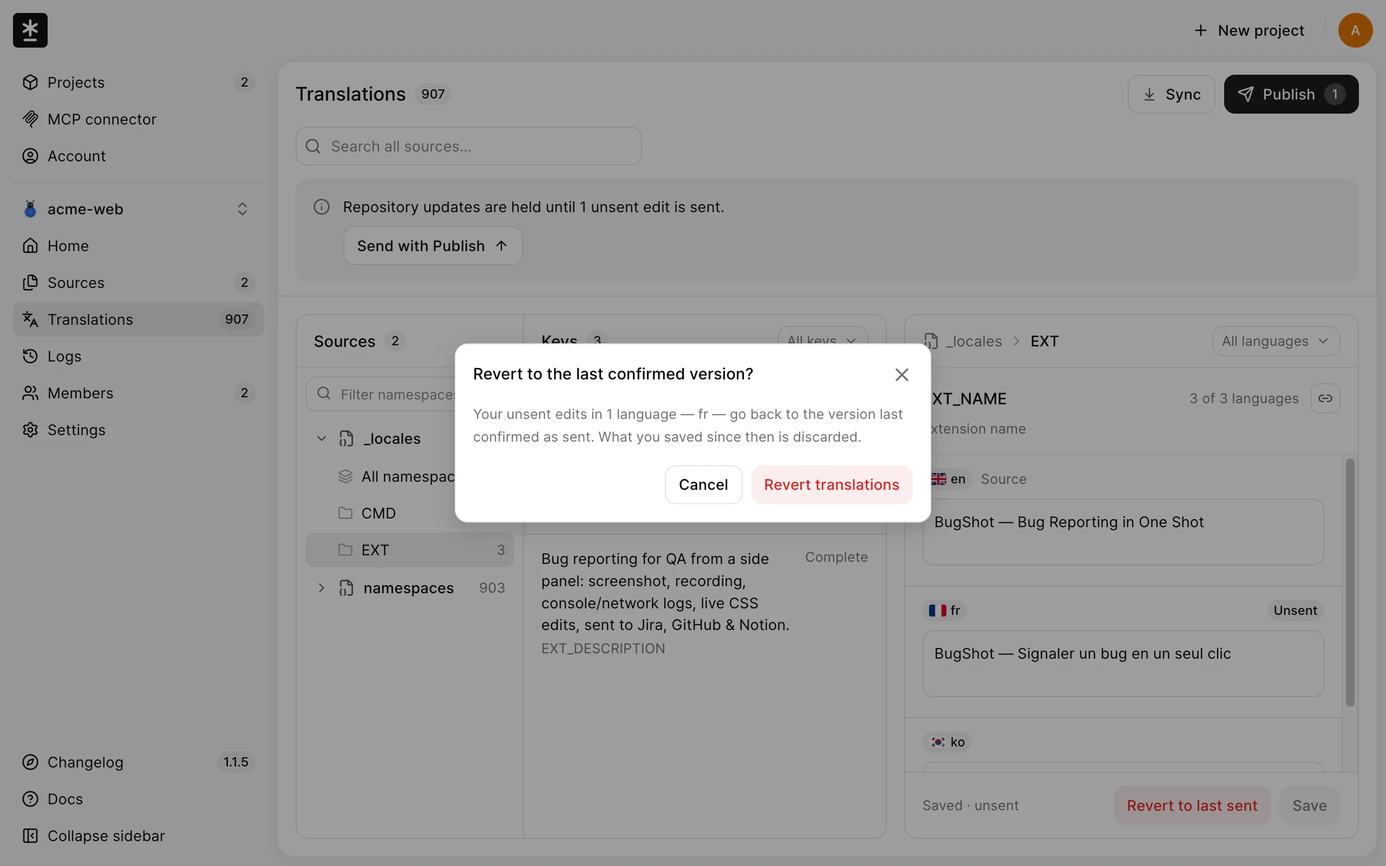
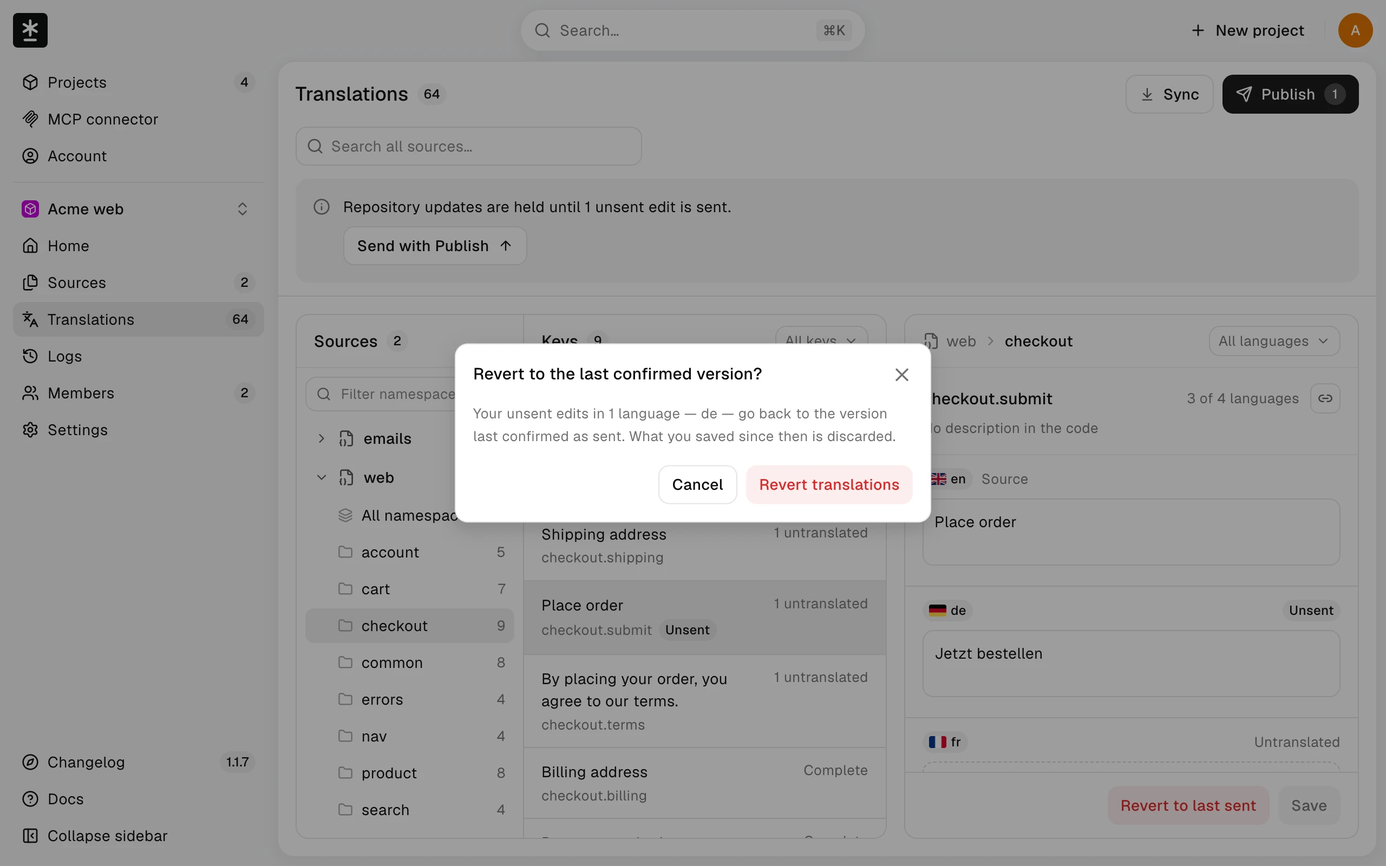
docs(guide): reshoot every stale cut on the resident Acme web project
Retake all 25 stale guide cuts plus the README hero and logs images on the
new resident shooting project (Acme web, web + emails sources), and record
the project, refreshed blob digests and masking rows in SHOOTING.md.

diff --git a/guide/SHOOTING.md b/guide/SHOOTING.md
@@ -20,10 +20,29 @@
 ## 환경 {#environment}
 
 - 로컬 `pnpm dev` + dev DB. **촬영 전에 `pnpm dev`를 다시 띄운다** — dev 서버가 도는 중에 `pnpm build`를 돌리면 서버 컴포넌트가 낡은 채로 남는다.
-- 데이터는 dev DB의 상주 QA 프로젝트 `bugshot-i18n-test-qa`(OWNER + EDITOR 두 계정)다. 지우거나 새로 만들지 않는다.
+- 데이터는 dev DB의 **상주 촬영 프로젝트 `Acme web`**(아래 절)이 기본이다. 실제 PR 이력이 필요한 컷(`logs-event` · README `logs`)만 상주 QA 프로젝트 `bugshot-i18n-test-qa`(OWNER + EDITOR, 마스킹 표로 `acme-web`)에서 찍는다. 둘 다 지우거나 새로 만들지 않는다.
 - **편집자 장(`translate/*`)의 컷은 EDITOR 계정으로 찍는다** — OWNER에게만 보이는 동작이 편집자 가이드 이미지에 들어가면 거짓이다.
 - GitHub 화면은 github.com에서 폐기용 리포의 설정 화면으로 찍는다. **폼을 채워도 저장·제출하지 않고**, 촬영 뒤 새로고침해 되돌린다.
 - 로그인(OAuth)은 사람이 한다. 계정을 바꿔야 하는 컷은 한 계정의 컷을 모아 찍는다.
+
+### 상주 촬영 프로젝트 `Acme web` {#resident}
+
+2026-10-03에 만들었다(사용자 결정 — 일회용 프로젝트를 만들고 지우던 방식을 대신한다). 번역 화면이 랜딩 목업(`m.landing.mockup`)과 같은 씬이 되도록 데이터를 짰다. **지우지 않고 다음 촬영마다 재사용한다.**
+
+| 항목 | 값 |
+| --- | --- |
+| 프로젝트 | Name `Acme web` · Address `acme-web` · OWNER(GitHub 계정) + EDITOR(Google 계정, 초대 수락) |
+| 리포 | 촬영 리포 `i18n-format-check` · base `dev` — 리포의 다른 세트(`locales/{locale}.yml` · `src/i18n/*`)는 Add sources 모달의 "아직 안 고른 후보"로 쓴다 |
+| 소스 `web` | `i18n/web/{locale}.json`(json-catalog, 중첩) · 53키 · 네임스페이스 아홉(`account` · `cart` · `checkout` · `common` · `errors` · `nav` · `product` · `search` · `settings`) |
+| 소스 `emails` | `i18n/emails/{locale}.json` · 11키 · 네임스페이스 넷(`order` · `password` · `shipping` · `welcome`) |
+| 로케일 | `en`(기준) · `de` · `fr` · `ja` — fr·ja에 미번역 칸, 원문을 고친 키 셋(`cart.empty` · `product.shipsIn` · `welcome.subject`)의 번역 9칸이 검토 대기, 원문만 있는 새 키 둘(`checkout.giftNote` · `product.wishlist`) |
+| 목업 씬 | `web` › `checkout` › `checkout.submit` — en `Place order` · de `Bestellung aufgeben` · fr 빈 칸 · ja `注文を確定する` |
+
+- **픽스처 파일은 키를 코드 유닛 순으로 정렬해 커밋했다** — json-catalog writer가 정렬해 다시 쓰므로, 정렬이 어긋나면 촬영용 Publish가 `Nothing differs`가 아니라 실제 diff(=PR)를 낸다. 픽스처를 고치면 어댑터 read→write가 바이트 동일한지 먼저 잰다.
+- 검토 대기는 원문 변경이 적재될 때만 생긴다 — 그래서 픽스처는 두 커밋이다(전체 적재 → 원문 셋 수정·새 키 둘 → OWNER Sync).
+- **편집 흔적은 남기지 않는다**: EDITOR 컷은 `checkout.submit` fr에 `Passer la commande`를 저장해 Home·미리보기(PR 안 엶)를 찍고, 칸을 비워 다시 저장한 뒤 Publish(`Nothing differs` → `Nothing changed in the files`)로 미전달 표시를 지운다(이 Publish가 전달 확인도 세운다). OWNER 컷은 `checkout.submit` de를 `Jetzt bestellen`으로 저장해 보류 Home·Sync 확인창(Cancel)·Revert 확인창을 찍고 실제 Revert로 되돌린다. 끝나면 미전달 0이어야 한다.
+- ⚠ **이 프로젝트로 OWNER 활성 프로젝트가 상한(셋)에 닿았다**(`bugshot-i18n-test-qa` · `i18n-order-check` · `acme-web`) — `/projects/new`가 목록으로 돌려보낸다. 온보딩 ①–④를 다시 찍을 때는 `acme-web`을 Settings에서 잠시 보관해 자리를 만들고, 일회용 프로젝트는 Address를 `acme-web`이 아닌 값(보관해도 slug는 남는다)으로 만든 뒤 id로 지우고, `acme-web`을 Restore한다. ①–③만이면 Create project를 누르지 않으니 일회용 프로젝트가 필요 없다.
+- `bugshot-i18n-test-qa3`(O7의 "영구 보관" 대상)은 촬영 시점(2026-10-03)에 dev DB에 이미 없었다 — 보관할 것이 없어 그 단계를 건너뛰었다.
 
 ## 마스킹 {#masking}
 
@@ -36,9 +55,14 @@
 | malmoi-test-org | acme |
 | bugshot-i18n-test | web |
 | i18n-order-check | acme-mobile |
+| i18n-format-check | web |
+| i18n-single-locale | admin |
+| i18n-many-locales | docs |
+| i18n-none | api |
 
 **사람을 가리키는 값은 이 표에 적지 않는다** — 표 자체가 공개 리포에 커밋된다. 촬영자가 원본을 로컬에서만 들고 치환한다: OWNER 표시 이름·GitHub 로그인 → `Alex Kim`·`@alex-kim`, EDITOR 표시 이름 → `Jordan Lee`, 이메일(가려진 `ab***@…` 꼴 포함) → `@example.com` 주소, 사람 사진 → 치환 이름의 이니셜 원(`Avatar` 폴백 모양). 뷰포트 전체 규격이라 셸 좌상단·우상단 아바타가 늘 컷에 들어간다 — 크롭으로 뺄 수 없다.
 - 앱 origin `localhost:3000`은 `mal-moi.com`으로 바꾼다 — `/mcp`의 Server URL과 조각이 origin을 그대로 보인다(가이드 본문이 프로덕션 주소를 쓴다).
+- 리포 경로의 소유자 조각(오너 계정명 + `/`)은 `acme/`로 바꾼다 — `Acme web`의 리포가 `acme/web`이 된다. ⚠ 그 경로는 화면에서 **소유자 · `/` · 리포명 세 텍스트 노드로 갈려** 있어 경로 단위 치환이 안 걸린다 — 다음 노드가 `/` + 리포명인 소유자 노드를 먼저 `acme`로 바꾼다. 온보딩 대화상자(①·②) 안은 예외로 `alex-kim/`이다(행 머리의 계정명이 로그인이다).
 
 - ⚠ **오너 GitHub 계정명은 원본으로 올릴 수 없다** — `SinhyeokKang/malmoi/...`는 action 경로라 `setup/allowed-actions.md`에 정당하게 있고, 게이트가 부분 문자열로 red를 낸다. 화면에서 그 계정이 사람으로 보이는 자리(셸 좌측 상단·계정 메뉴)는 크롭으로 뺀다. action 경로 속 계정명은 공개 식별자라 그대로 둔다.
 - 픽셀 안의 문자열은 게이트가 못 본다. 컷마다 눈으로 확인한다.
@@ -86,39 +110,39 @@
 | 에셋 | 소스 | blob | 치수 |
 | --- | --- | --- | --- |
 | /guide/push-token-secret.webp | lib/onboarding/workflow.ts | 45d351ca4d9fc6cff70c84d0e784e6e992edba69 | 2560x1600 |
-| /guide/workflow-file.webp | components/settings/ci-card.tsx, components/onboarding/workflow-block.tsx, lib/onboarding/workflow.ts | 8dc8b8e40c8d03d1987042a2753dbd2b7a51a560, e099fcb70b6fca21b04b07c69217a0b2a0018f9e, 45d351ca4d9fc6cff70c84d0e784e6e992edba69 | 2560x1600 |
+| /guide/workflow-file.webp | components/settings/ci-card.tsx, components/onboarding/workflow-block.tsx, lib/onboarding/workflow.ts | 4bd4e0efe406a56623031a2b69b5d5c38a4d847a, 092b2bc9a2f640b47cde917eba8198f77b2b8534, 45d351ca4d9fc6cff70c84d0e784e6e992edba69 | 2560x1600 |
 | /guide/actions-policy.webp | lib/onboarding/workflow.ts, .github/actions/malmoi-i18n-push/action.yml | 45d351ca4d9fc6cff70c84d0e784e6e992edba69, 559ddc28bcd1c0fa8f4a1946dd15f7e8fcd0f03d | 2560x1600 |
-| /guide/translation-editor.webp | components/translations/workspace/key-list.tsx, components/translations/workspace/locale-panel.tsx, components/translations/workspace/workspace.tsx, components/translations/workspace/tree-panel.tsx | e80e1d2ccbceef8b1fe90129642828023062181f, d1cdf1a4ed40ae711dcd497e5ab53d1f636e0ca6, 9f09ce7b01ed2e925931caed9574e4a268a7069f, e6ffd8bacdd8839ed55d81a881e8596a00db5856 | 2560x1600 |
-| /guide/publish-preview.webp | components/publish-button.tsx, lib/publish/preview.ts | 883186b35409b04573b0875338f3c50b4be4b67e, 257ebc5a440efdd31731c6426b9851f869a41561 | 2560x1600 |
-| /guide/project-home.webp | app/(edit)/projects/[slug]/(home)/page.tsx, components/home/count-cards.tsx, components/home/meta-column.tsx | 75265bd2c58a5ee2adb12676c1505e0a85fb321f, c07299e669429f92e186871be1b5af5c072196f5, e604a3df5c2d576c3a23eea73ec2ab63eb25bec8 | 2560x1600 |
-| /guide/invite-members.webp | components/members/invite-modal.tsx | 02990e7be3eaa99151caea8a3272f5511f95923c | 2560x1600 |
-| /guide/members.webp | components/members/member-list.tsx, components/members/member-row.tsx, components/members/pending-invitations.tsx | 991ea321fe17d6a550fb2fa40b2b8a7a6116ae7c, 670643ad10a2e9a101d3b2e1123d24cc56fc3ab4, 7c9b9160e6e4fc77dd6277239daaf8c5fa5e196e | 2560x1600 |
-| /guide/sources.webp | components/sources/sources-screen.tsx, components/sources/source-status.tsx | 91c8f8eeb1666d899d9d7c07413dc3a5a7a7a794, 322b6032402ec63dfb1ac84adb5f61466197f0ab | 2560x1600 |
-| /guide/add-sources.webp | components/sources/add-sources-modal.tsx | a5d967e4ae6d9c0ea5e6490d959f5bd8fb3539af | 2560x1600 |
-| /guide/archive-card.webp | components/settings/archive-card.tsx | ad3ac6b92e320b8c701f4a5f89ae79636ee09848 | 2560x1600 |
-| /guide/accept-invitation.webp | app/invite/[token]/page.tsx, components/invite/project-card.tsx, components/signin/auth-layout.tsx | 1acd7ea93339bf382346675e15153911f7e5ff28, f04bd2df388d5f046ad05818553e51c39fd45376, 707e072f943e340d3d4fb9b389ecb39f75d67eb2 | 2560x1600 |
-| /guide/state-filter.webp | components/translations/workspace/filter-menu.tsx, components/translations/workspace/key-list.tsx, dict:translations.workspace.filters.state.any, dict:translations.workspace.filters.state.incomplete, dict:translations.workspace.filters.state.unsent, dict:translations.workspace.filters.state.review, dict:translations.workspace.filters.state.new | d3bce959af8d327b21251baf8afc1d3719bdea3c, e80e1d2ccbceef8b1fe90129642828023062181f, b823bb9b42b3672439670b5267fe5328d7524380, 387fd1bbc18419e26c612f4acad9213e5073ade4, 0d09fa0d8c890b48da20aefe409a39eb962b5114, 33a506cf6ec5a56c261838f0a5a3d29cd7f2dacc, 56539cd31aeb7453fb2900c2952b988146fd6127 | 2560x1600 |
-| /guide/home-publish.webp | app/(edit)/projects/[slug]/(home)/page.tsx, components/home/count-cards.tsx, components/publish-button.tsx | 75265bd2c58a5ee2adb12676c1505e0a85fb321f, c07299e669429f92e186871be1b5af5c072196f5, 883186b35409b04573b0875338f3c50b4be4b67e | 2560x1600 |
-| /guide/publish-result.webp | components/publish-button.tsx | 883186b35409b04573b0875338f3c50b4be4b67e | 2560x1600 |
-| /guide/home-paused.webp | app/(edit)/projects/[slug]/(home)/page.tsx, components/home/count-cards.tsx, dict:home.cards.held.pending-edits | 75265bd2c58a5ee2adb12676c1505e0a85fb321f, c07299e669429f92e186871be1b5af5c072196f5, e7daa697ea395700d6e0a57f5dc83a59b2b30aa7 | 2560x1600 |
-| /guide/revert-confirm.webp | components/translations/workspace/workspace.tsx, components/translations/edit-loss-banner.tsx, components/translations/workspace/key-list.tsx | 9f09ce7b01ed2e925931caed9574e4a268a7069f, a2d467970dd0f205e735b233b89ac467e3cbd7af, e80e1d2ccbceef8b1fe90129642828023062181f | 2560x1600 |
-| /guide/sync-discard.webp | components/home/sync-button.tsx | 291488b956d5ed29073e941cfb010802b501c67e | 2560x1600 |
-| /guide/logs-event.webp | components/logs/event-dialog.tsx, components/logs/event-detail.tsx | 0165c38aa64249055a9719799656d73b6aa11187, a9b4439ca5ac09eb517ce395d8a8554e3e77ecc2 | 2560x1600 |
-| /guide/account.webp | app/(edit)/account/page.tsx, components/account/profile-picture.tsx, components/account/login-methods.tsx, components/account/github-section.tsx | 0c1aa217dc31719904fc9fd926d8910e49e9b5fb, 398f113d7977abdc5f558f52e70bab28bdce3927, f4338d4aae4e18915e03a1f4bd35e96c2d7f52ba, 4c51c1f75b4f736cfece77b000c560e670b9093c | 2560x1600 |
-| /guide/mcp-create-token.webp | components/mcp/token-modal.tsx, components/mcp/token-grant-fields.tsx | ffa3d134c45ea4791b60fab9a77ad5809a35ebd3, 3d25c124462babf4252b119e8ee891f2b693150d | 2560x1600 |
-| /guide/mcp-connector.webp | components/mcp/connected-apps-card.tsx, components/mcp/token-card.tsx | 67ca3987aaa70690fd76e5631ca3c4ac8730d688, 9159821fea3a659f0a8de65105a95c7d514c11f5 | 2560x1600 |
-| /guide/oauth-consent.webp | app/oauth/authorize/page.tsx, components/oauth/consent-panel.tsx, components/oauth/app-card.tsx, components/mcp/token-grant-fields.tsx | 3440235fe7a45c306afa13f94ba1536d829b5f36, 12ad3105c15d4917f0a245797f1b092f59159757, c53824331c89ec5759a6173c71718b1b6b1ce01f, 3d25c124462babf4252b119e8ee891f2b693150d | 2560x1600 |
-| /guide/create-repository.webp | components/onboarding/new-project.tsx, components/onboarding/steps/repo.tsx | 92d8908f3e4e816ef619ad5056bf7c5fe7f9d5dd, dde9d7f67f12f97ae260f96a84a2a35ccc9cc10d | 2560x1600 |
-| /guide/create-files.webp | components/onboarding/new-project.tsx, components/onboarding/steps/files.tsx | 92d8908f3e4e816ef619ad5056bf7c5fe7f9d5dd, 73239b5ec88a1a2ec869a90b13942709f27b28b5 | 2560x1600 |
-| /guide/create-name.webp | components/onboarding/new-project.tsx, components/onboarding/steps/naming.tsx | 92d8908f3e4e816ef619ad5056bf7c5fe7f9d5dd, cd59e484ac6d8aace8458c721f627be1948f857f | 2560x1600 |
-| /guide/create-ready.webp | components/onboarding/new-project.tsx, components/onboarding/steps/result.tsx, components/onboarding/workflow-block.tsx | 92d8908f3e4e816ef619ad5056bf7c5fe7f9d5dd, 768be882181242fe383d1b32646b089128d6676f, e099fcb70b6fca21b04b07c69217a0b2a0018f9e | 2560x1600 |
+| /guide/translation-editor.webp | components/translations/workspace/key-list.tsx, components/translations/workspace/locale-panel.tsx, components/translations/workspace/workspace.tsx, components/translations/workspace/tree-panel.tsx | 577591f47aa319f104fb6e3255228e8577ec5944, 9128e27fd830b7e652eac42f98e7082440980b23, a71181e2bdacaa99af65fd018d01c75fd526080b, 3ee7152f19005f825a81af057cbaa2e232ee4c0f | 2560x1600 |
+| /guide/publish-preview.webp | components/publish-button.tsx, lib/publish/preview.ts | 4a4f73fdcefb0bd9b5d65a3ebcda8183638b47d3, 257ebc5a440efdd31731c6426b9851f869a41561 | 2560x1600 |
+| /guide/project-home.webp | app/(edit)/projects/[slug]/(home)/page.tsx, components/home/count-cards.tsx, components/home/meta-column.tsx | 75265bd2c58a5ee2adb12676c1505e0a85fb321f, 6bc8a8f1bb9835ebfbb199a2efa13cb2e3314ae2, edf23259e875f2f3ea5022c65afde7dbe52ef961 | 2560x1600 |
+| /guide/invite-members.webp | components/members/invite-modal.tsx | 9b5a3cda42078ed85f1644cecede6cceba78512e | 2560x1600 |
+| /guide/members.webp | components/members/member-list.tsx, components/members/member-row.tsx, components/members/pending-invitations.tsx | 5d6d40bdda585cd2701e1a96e35cf919cd563d94, 1ef2a56aa72c5358d2694909da62048dd4b9d62f, dc4b07831441305ba57c73f3d8ea7f37520b7988 | 2560x1600 |
+| /guide/sources.webp | components/sources/sources-screen.tsx, components/sources/source-status.tsx | ec9328d4a3caf885093bae4ffa3b2cacb3af6271, 322b6032402ec63dfb1ac84adb5f61466197f0ab | 2560x1600 |
+| /guide/add-sources.webp | components/sources/add-sources-modal.tsx | cef5eeb86b8eb0f8b58d787a5127a08c0f4ce142 | 2560x1600 |
+| /guide/archive-card.webp | components/settings/archive-card.tsx | 577981f534827fb9996f0a70583c9ea9bccb4894 | 2560x1600 |
+| /guide/accept-invitation.webp | app/invite/[token]/page.tsx, components/invite/project-card.tsx, components/signin/auth-layout.tsx | 8c1b77f4b306fb4c14745b91e57503407e3485fd, 127ce43ee81376d2129c819207560812ddf1f1e7, 8a968c709a4a6d01b86c1eac76f2456efa964c3e | 2560x1600 |
+| /guide/state-filter.webp | components/translations/workspace/filter-menu.tsx, components/translations/workspace/key-list.tsx, dict:translations.workspace.filters.state.any, dict:translations.workspace.filters.state.incomplete, dict:translations.workspace.filters.state.unsent, dict:translations.workspace.filters.state.review, dict:translations.workspace.filters.state.new | 0d6e722c777ce3d4d3cdba98015793f38c2cbb4a, 577591f47aa319f104fb6e3255228e8577ec5944, b823bb9b42b3672439670b5267fe5328d7524380, 387fd1bbc18419e26c612f4acad9213e5073ade4, 0d09fa0d8c890b48da20aefe409a39eb962b5114, 33a506cf6ec5a56c261838f0a5a3d29cd7f2dacc, 56539cd31aeb7453fb2900c2952b988146fd6127 | 2560x1600 |
+| /guide/home-publish.webp | app/(edit)/projects/[slug]/(home)/page.tsx, components/home/count-cards.tsx, components/publish-button.tsx | 75265bd2c58a5ee2adb12676c1505e0a85fb321f, 6bc8a8f1bb9835ebfbb199a2efa13cb2e3314ae2, 4a4f73fdcefb0bd9b5d65a3ebcda8183638b47d3 | 2560x1600 |
+| /guide/publish-result.webp | components/publish-button.tsx | 4a4f73fdcefb0bd9b5d65a3ebcda8183638b47d3 | 2560x1600 |
+| /guide/home-paused.webp | app/(edit)/projects/[slug]/(home)/page.tsx, components/home/count-cards.tsx, dict:home.cards.held.pending-edits | 75265bd2c58a5ee2adb12676c1505e0a85fb321f, 6bc8a8f1bb9835ebfbb199a2efa13cb2e3314ae2, e7daa697ea395700d6e0a57f5dc83a59b2b30aa7 | 2560x1600 |
+| /guide/revert-confirm.webp | components/translations/workspace/workspace.tsx, components/translations/edit-loss-banner.tsx, components/translations/workspace/key-list.tsx | a71181e2bdacaa99af65fd018d01c75fd526080b, a2d467970dd0f205e735b233b89ac467e3cbd7af, 577591f47aa319f104fb6e3255228e8577ec5944 | 2560x1600 |
+| /guide/sync-discard.webp | components/home/sync-button.tsx | 356c1137a5ca0cf424bd99a0cef14dd639cff2f0 | 2560x1600 |
+| /guide/logs-event.webp | components/logs/event-dialog.tsx, components/logs/event-detail.tsx | 0dedec5f350f028a90964b1de78ea9b59ff0bf35, ddce8aefc3e5f3139a66bceabe4009fc8eaa85f0 | 2560x1600 |
+| /guide/account.webp | app/(edit)/account/page.tsx, components/account/profile-picture.tsx, components/account/login-methods.tsx, components/account/github-section.tsx | 08c082fdfcf73447117b8630f1935c2df7616260, 398f113d7977abdc5f558f52e70bab28bdce3927, c5a0185be30d378a43f5f1fd74abdc4aff87fa6f, 9ba2437980de1b0efb7d651cae50a654a2415b41 | 2560x1600 |
+| /guide/mcp-create-token.webp | components/mcp/token-modal.tsx, components/mcp/token-grant-fields.tsx | af606c315ee6be9fbde91726442a1eaf1b434875, 7e1886518d239bbb8c0cf7ca2aa9b68648f3576b | 2560x1600 |
+| /guide/mcp-connector.webp | components/mcp/connected-apps-card.tsx, components/mcp/token-card.tsx | 622ad68db7cd503d0a130615ef0296835285b92c, 9c41fc7bc3180499c970f2d0219b66e080e15bad | 2560x1600 |
+| /guide/oauth-consent.webp | app/oauth/authorize/page.tsx, components/oauth/consent-panel.tsx, components/oauth/app-card.tsx, components/mcp/token-grant-fields.tsx | f7d6f8fe1be6b9580261103ade395f17f3a8dbff, 2660e31ba25278e2addd3e3bcddeb3b9a94c486e, aa583137442fbd8122e5ca461701f5ffa2dbe599, 7e1886518d239bbb8c0cf7ca2aa9b68648f3576b | 2560x1600 |
+| /guide/create-repository.webp | components/onboarding/new-project.tsx, components/onboarding/steps/repo.tsx | 111ce7bcd111dc95367fa5984f528d9ff2f7a49f, ff3ffdc74c77292b9143ecbee24ca1e0abc0a474 | 2560x1600 |
+| /guide/create-files.webp | components/onboarding/new-project.tsx, components/onboarding/steps/files.tsx | 111ce7bcd111dc95367fa5984f528d9ff2f7a49f, 85fd6e1b62eb182e52040cbb2793d32ed3ed42af | 2560x1600 |
+| /guide/create-name.webp | components/onboarding/new-project.tsx, components/onboarding/steps/naming.tsx | 111ce7bcd111dc95367fa5984f528d9ff2f7a49f, ab8f89284b04afc62a47127b63ea44b698bbeead | 2560x1600 |
+| /guide/create-ready.webp | components/onboarding/new-project.tsx, components/onboarding/steps/result.tsx, components/onboarding/workflow-block.tsx | 111ce7bcd111dc95367fa5984f528d9ff2f7a49f, 0303dfc89c884f37a886a0040c5e01c626e4b116, 092b2bc9a2f640b47cde917eba8198f77b2b8534 | 2560x1600 |
 
 - ⚠ **셸이 컷에 들어간 뒤로 LNB·패널 머리·카드 머리(`components/shell/**`·`components/ui/panel-card.tsx` 등)의 변경도 모든 컷을 낡게 한다** — 소스로 올리면 신호가 죽으므로(`messages/en.tsx`와 같은 이유) 올리지 않는다. 셸을 바꿨으면 컷 전체를 손으로 다시 본다.
 
 ## 알려진 벽 {#walls}
 
 - **GitHub App 설치 왕복**(①의 1클릭 설치·요청 복귀·승인 복귀)은 로컬에서 못 밟는다 — 설치 URL이 `redirect_uri`를 안 받아 프로덕션 callback으로 간다. 찍어야 하면 수동으로 찍고, 아니면 건너뛴다.
-- **④ `Malmoi is ready`는 프로젝트를 새로 만들어야만 닿는다**(2026-09-29 사용자 승인으로 찍었다). 절차: ①–③과 같이 `i18n-order-check`를 보관해 자리를 만들고 → 실제 UI로 일회용 프로젝트를 만든다(Name `Acme web`·Address `acme-web` — 마스킹이 필요 없다) → ④가 뜨면 **스냅샷·텍스트 출력 전에** 토큰 칩(`<code>`)을 같은 형(base64url 43자)의 무작위 가짜 값으로 바꾸고, 캡처 직전 그 값이 남았는지 다시 확인한다 → YAML의 `api-url:` 줄은 로컬에서만 생기므로 DOM에서 지운다(프로덕션 출력과 맞춘다) → 캡처 뒤 Close → 일회용 프로젝트를 dev DB에서 **그 id로 좁힌 SQL**로 지운다(한 트랜잭션: `ProjectEvent`·`DeliveryConfirmation`·`SyncRun`·`TranslationBaseline`·`Translation`·`StringKey`(`KeyRef`는 cascade)·`Locale`·`ProjectInvitation`·`ProjectMember` → `Project.defaultSurfaceId` NULL → `TranslationSurface` → `Project`. **UI 삭제는 없다**) → `i18n-order-check`를 Restore. ⚠ 폐기한 프로젝트의 사건은 촬영 흔적이라 같이 지운다 — 남은 프로젝트의 사건은 지우지 않는다.
+- **④ `Malmoi is ready`는 프로젝트를 새로 만들어야만 닿는다**(2026-09-29 사용자 승인으로 찍었다). 절차: ①–③과 같이 `i18n-order-check`를 보관해 자리를 만들고 → 실제 UI로 일회용 프로젝트를 만든다(Name `Acme web`·Address `acme-web` — 마스킹이 필요 없다) → ④가 뜨면 **스냅샷·텍스트 출력 전에** 토큰 칩(`<code>`)을 같은 형(base64url 43자)의 무작위 가짜 값으로 바꾸고, 캡처 직전 그 값이 남았는지 다시 확인한다 → YAML의 `api-url:` 줄은 로컬에서만 생기므로 DOM에서 지운다(프로덕션 출력과 맞춘다) → 캡처 뒤 Close → 일회용 프로젝트를 dev DB에서 **그 id로 좁힌 SQL**로 지운다(한 트랜잭션: `ProjectEvent`·`DeliveryConfirmation`·`SyncRun`·`TranslationBaseline`·`Translation`·`StringKey`(`KeyRef`는 cascade)·`Locale`·`ProjectInvitation`·`ProjectMember` → `Project.defaultSurfaceId` NULL → `TranslationSurface` → `Project`. **UI 삭제는 없다**) → `i18n-order-check`를 Restore. ⚠ 폐기한 프로젝트의 사건은 촬영 흔적이라 같이 지운다 — 남은 프로젝트의 사건은 지우지 않는다. ⚠ **2026-10-03 상주 촬영 프로젝트 이후**: 토큰 칩은 이제 `<code>`가 아니라 **읽기 전용 `<input>`의 value**다 — 그 값을 바꾼다. `api-url:` 줄은 job마다 하나씩 둘이다(전역 치환). 자리 만들기는 `i18n-order-check`가 아니라 `acme-web` 보관이다(상주 절).
 - ⚠ **미전달 표시를 지우는 길** (2026-09-28): 촬영용 편집을 원래 값으로 다시 저장하면 값은 리포와 같아지고 표시만 남는다. 그 셀에 전달된 적 있는 값이 없으면 **Revert to last sent가 꺼진다**(OWNER에게도 — "The last sent version isn't available"). 그때 OWNER의 Publish 미리보기가 *Nothing differs from dev*를 내고, 그 Publish는 **PR 없이 보낸 것으로 표시만 한다**(GitHub 쓰기 없음, Logs에 Publish 사건 1건). 편집자 장 컷은 이 정리 **뒤에** 찍는다 — 남으면 번역 화면에 `Repository updates are paused…` 배너와 `Not sent` 칩이 선다.
 - **Publish 미리보기는 미전달 편집이 있어야 열린다** — 없으면 Publish가 `aria-disabled`다. 편집을 하나 저장해 찍으면 그 셀에 미전달 표시가 남는다. **Revert to last sent**는 마지막 전달 값이 없는 셀에서 꺼져 있을 수 있고, 같은 값을 다시 저장해도 미전달 표시는 안 지워진다(`lib/keys/save-key.ts`가 저장마다 새 토큰을 쓴다). 촬영 전에 되돌릴 길을 정한다.
 - **GitHub 설정 화면에서 뷰포트 에뮬레이션(`Emulation.setDeviceMetricsOverride`)은 자동 모드 분류기가 막았다**(2026-09-27). ⚠ 2026-09-28에는 앱에서 건 에뮬레이션이 같은 탭의 github.com 이동 뒤에도 유지돼 막히지 않았다 — 막히면 앱 탭에서 걸고 이동한다. GitHub 테마는 촬영 계정의 설정(지금 다크)을 따른다 — 바꾸지 않는다.
@@ -126,7 +150,7 @@
 
 - ⚠ **Revert to last sent는 전달 확인(`DeliveryConfirmation`)이 유효할 때만 켜진다** (2026-09-29): 확인이 무효인 소스에선 편집 직후에도 "The last sent version isn't available"로 꺼진다. **PR 없이 끝나는 Publish(`Nothing differs from dev` → `Nothing changed in the files`)가 새 확인을 세운다** — 그 뒤에 한 편집은 기준이 기록돼 Revert가 켜지고, 확인창 촬영 뒤 실제 Revert로 셀을 되돌리면 미전달 표시까지 GitHub 쓰기 없이 지워진다. 순서: 편집 → 원래 값으로 재저장 → Publish(Nothing differs) → 새 편집 → Revert 확인창 촬영 → Revert.
 - **새 프로젝트 흐름(①–③)은 OWNER가 활성 프로젝트 상한(셋)이면 `/projects/new`가 목록으로 돌려보낸다** (2026-09-29 — 같은 dev DB를 쓰는 다른 QA가 MCP로 프로젝트를 만들어 셋이 됐다). 자리는 **OWNER 단독의 유휴 프로젝트(`i18n-order-check`)를 Settings에서 보관**해 만들고, 촬영 뒤 같은 카드의 Restore project로 되돌린다(사용자 승인 2026-09-29). 남이 쓰는 프로젝트는 건드리지 않는다. ③에서 **Create project를 누르지 않는다** — ④는 위 절차(일회용 프로젝트 + 정리)로만 찍는다.
-- ①의 저장소 목록은 설치가 닿는 **개인 리포 이름을 전부** 보인다 — 검색창에 `i18n`을 넣어 테스트 리포만 남긴 상태로 찍는다. 목록의 GitHub 계정명은 `alex-kim`으로 치환한다(셸의 표시 이름은 `Alex Kim`).
+- ①의 저장소 목록은 설치가 닿는 **개인 리포 이름을 전부** 보인다 — 검색창에 `i18n`을 넣어 테스트 리포만 남긴 상태로 찍는다. 목록의 GitHub 계정명은 `alex-kim`으로 치환한다(셸의 표시 이름은 `Alex Kim`). 고른 리포(`i18n-format-check` → `web`)와 겹치지 않게 이 컷에서만 `bugshot-i18n-test`를 `extension`으로 바꾼다(표의 `web`과 충돌).
 - **dev DB는 다른 워커·preview와 함께 쓴다** — 촬영 중에 프로젝트 수·Logs·Projects 배지가 바뀔 수 있다. 촬영 전후 상태를 스냅샷으로 대조한다.
 
 ## 진행 상태 {#progress}
@@ -154,3 +178,4 @@
 - 2026-10-01 sync-lock(Sync Dialog가 진행·결과까지 든다 · 적재 lease 배너·거부 Dialog) — stale 다섯 전부 **재촬영 없이 SHA만 갱신**: `project-home`·`home-publish`·`home-paused`(`page.tsx`는 `loadWriteLock` 로더와 `HomeActions`의 `writeLock` prop뿐 — lease가 없으면 Home은 그대로다) · `revert-confirm`(`workspace.tsx`는 결과 띠·`SlowNotice`를 걷고 `SyncLockBanner`·`SyncLockDialog`를 더했다 — 둘 다 lease·거부가 없으면 렌더하지 않는다) · `sync-discard`(바뀐 것은 진행·결과 단계다. 컷이 보이는 확인 단계는 설명문·경고 블록·푸터 마크업이 같고, 미전달 0 상태의 확인 단계를 1280×800에서 실측해 Dialog 폭 440·머리·X·푸터가 기존 컷과 같음을 확인했다 — 편집을 만들지 않았다).
 - 2026-10-02 translation-tree-range(툴바는 검색 하나 · Status 필터가 키 목록 머리로 · 트리가 범위이고 노드를 숨기지 않는다 · `Complete` 걷고 `Incomplete` 추가) — **재촬영**: `translation-editor`·`state-filter`(EDITOR, `Jordan Lee` sky) · `revert-confirm`(OWNER) · README `hero`(OWNER, 1400×875). 트리가 이제 전 네임스페이스를 보이므로 `translation-editor`·`state-filter`·`hero`는 `Filter namespaces`에 `cancel`을 넣어 `cancelConfirm`이 보이게 찍었다(`?ns=cancelConfirm` + `cancelConfirm.body` 선택). `state-filter` 매핑에 `filters.state.incomplete`를 더했다(`any`의 값이 `All keys`로 바뀌었다). `translation-editor` 매핑에 `workspace.tsx`·`tree-panel.tsx`를 더했다 — 트리와 툴바가 그 둘에서 그려져 `guide:check`가 못 잡았다. **SHA만 갱신** 셋: `project-home`·`home-publish`·`home-paused` — `count-cards.tsx`·`page.tsx`는 카드 링크의 착지 소스(`cardLandings`)와 주석뿐이다. 그대로 둔 둘: `workflow-file`·`create-ready`(이번 변경과 무관한 기존 stale). 셋업: OWNER `_locales` `EXT_NAME` fr 편집 → **Revert가 꺼져 있었다**(전달 확인 무효) → 원래 값 재저장 → OWNER Publish(`Nothing differs` → `Nothing changed in the files`) → 새 편집 → 확인창 촬영 → 실제 Revert. 전후: 미전달 0→0, GitHub 쓰기 없음, `bugshot-i18n-test-qa` 사건 466→471(편집·재저장·Publish·편집·Revert), `i18n-order-check` 72→72. README의 `translation-editor`는 `public/guide/` 같은 파일이다(README 전용 사본 없음).
 - 2026-10-02 translation-tree-range r8(키 목록 머리의 `Incomplete first` 문구를 걷었다 — 정렬은 그대로) — 그 머리가 보이는 네 컷 **재촬영**: `translation-editor`·`state-filter`(EDITOR) · `revert-confirm`(Dim 뒤 머리) · README `hero`. 셋업은 같은 날 앞 항목과 같다(`Filter namespaces`에 `cancel` · OWNER `_locales` `EXT_NAME` fr 편집 → 확인창 → 실제 Revert — 이번엔 Revert가 처음부터 켜져 있었다). `guide:check`는 `translation-editor`만 냈다 — `state-filter`·`revert-confirm`도 그 머리를 찍으므로 둘의 매핑 소스에 `key-list.tsx`를 더했다. 전후: 미전달 0→0, GitHub 쓰기 없음, `bugshot-i18n-test-qa` 사건 471→473(편집·Revert), `i18n-order-check` 72→72. ⚠ **새로 밟은 것**: EDITOR 계정이 이제 Google 프로필 사진(`<img>`)을 들고 온다 — 이니셜 `<span>`만 고치는 치환이 안 걸려 원본 사진이 찍혔다. `<img>`를 이니셜 원(`Jordan Lee` sky)으로 바꿔 끼운다.
+- 2026-10-03 search-ux-polish GS(사용자 — "이번에 다 찍는다") — **`guide:check` stale 25컷 전부 + README 두 장(`hero` · `logs`) 재촬영**, 밀린 `create-ready` 포함. 그대로 둔 둘: `push-token-secret` · `actions-policy`(GitHub 화면, stale 아님). 검색 Dialog·스위처는 가이드 컷이 없어 따로 찍지 않았다 — 셸 헤더의 검색 트리거는 모든 셸 컷에 들어갔다. **상주 촬영 프로젝트 `Acme web`(위 절)을 이 촬영으로 만들었다**: 촬영 리포에 픽스처 두 커밋(전체 적재용 · 원문 셋 수정과 새 키 둘) → ①–④를 그 생성 흐름 그대로 찍었다(①은 `i18n`으로 거른 목록에서 `web` 선택, ②는 `web`·`emails` 두 세트, ③은 `Acme web`/`acme-web`, ④는 토큰 input을 43자 가짜 값으로 바꾸고 `api-url` 두 줄 제거) → OWNER Sync로 검토 대기 9칸 → EDITOR 초대 1건을 dev DB에 심어 `accept-invitation`을 찍고 **실제로 수락**(상주 멤버). 번역·Home·Members·Sources·Settings·Publish·Revert 컷은 전부 `Acme web`, `logs-event`·README `logs`는 PR 이력이 있는 `bugshot-i18n-test-qa`(Kind: Publish, 17:11 행부터). MCP 연결 둘은 가짜 `OAuthConnection` 행 → 촬영 뒤 id로 삭제(0→0), `oauth-consent`는 claude.ai CIMD authorize 요청(Authorize 안 누름). 전후 대조: 기존 프로젝트 셋(`bugshot-i18n-test-qa` 사건 476 · `i18n-order-check` 72 · 보관된 `malmoi` 11)은 그대로, `acme-web`이 새로 생겼다(키 64 · 멤버 2 · 사건 11 · 미전달 0), OAuth 연결 0→0, 촬영 리포에 PR 없음. ⚠ **새로 밟은 것**: dev DB가 촬영 중 한 번 `DatabaseNotReachable`로 Home을 `Something went wrong`으로 그렸다 — 캡처 전에 그 문구가 없는지 확인한다. Settings·Account의 파일 입력은 브라우저 로케일 문구(한국어)를 숨긴 input에 들고 있어 화면엔 안 보인다. `create-name`은 Address 입력에 포커스 링이 남으니 blur 뒤 찍는다. Logs의 Kind 필터 버튼도 고른 뒤 포커스 링이 남는다.
